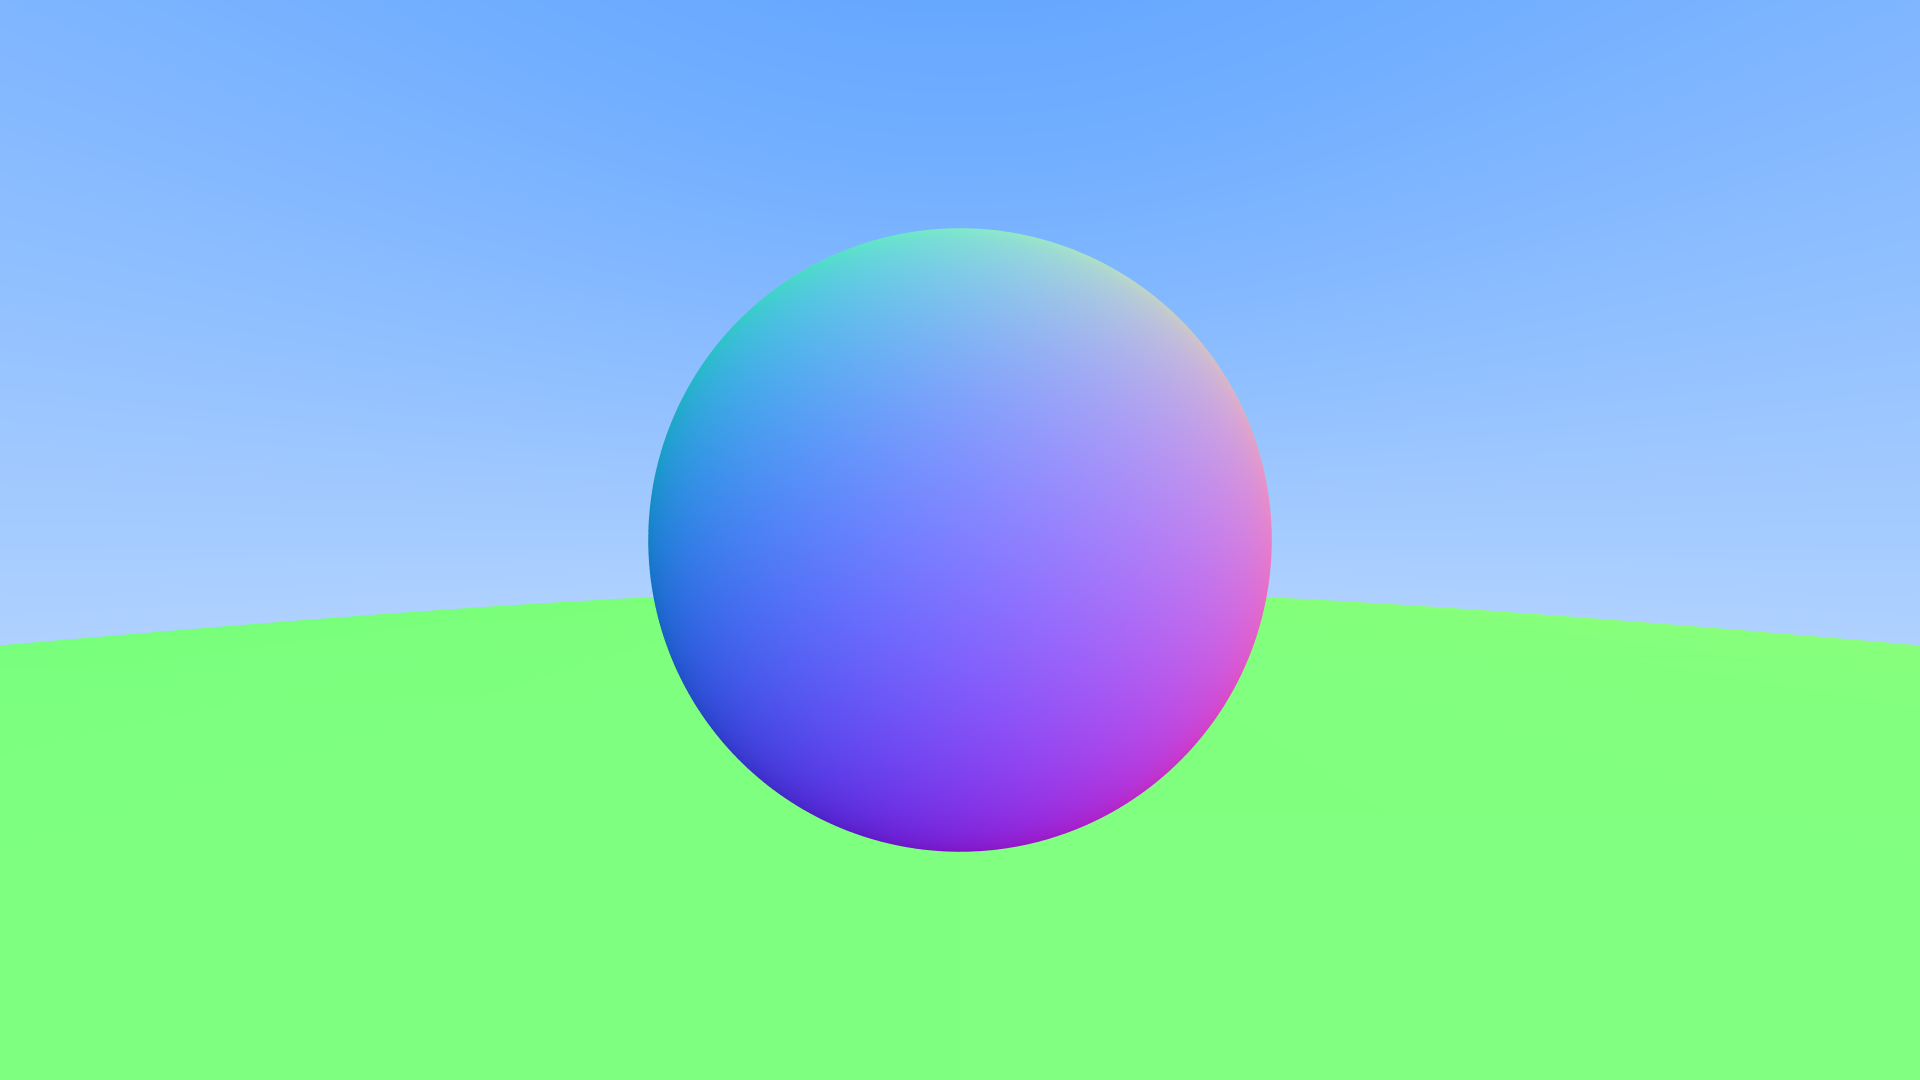
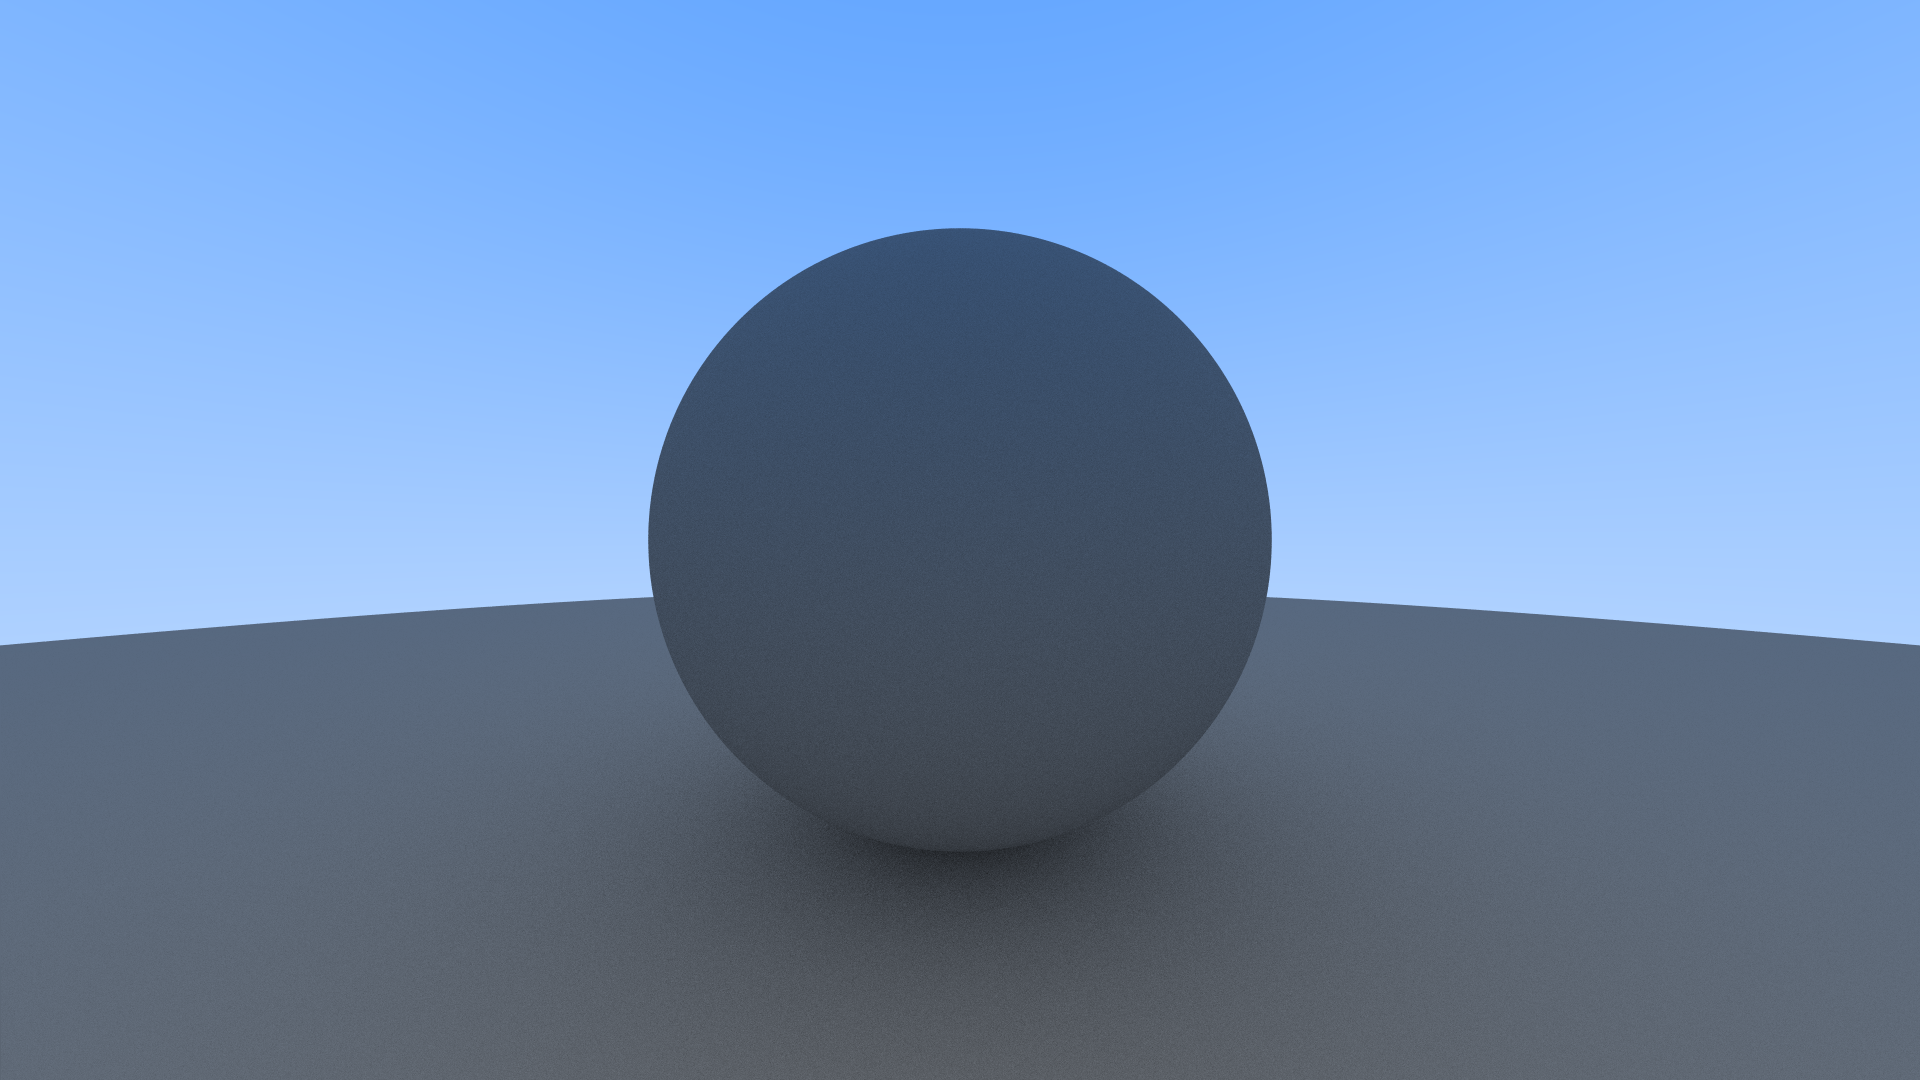
render impl fix

diff --git a/vexray/src/renderer/config.rs b/vexray/src/renderer/config.rs
@@ -11,6 +11,7 @@ pub struct Camera {
     /// Distance from camera center and viewport center
     pub focal_length: f32,
     pub samples: u32,
+    pub bounces: u32
 }
 
 #[derive(Debug, encase::ShaderType)]
@@ -41,7 +42,8 @@ impl KernelConfig {
         let camera = Camera {
             center: glam::Vec3::ZERO,
             focal_length: 1.0,
-            samples: 128
+            samples: 128,
+            bounces: 64
         };
 
         let viewport_height = 2.0;
